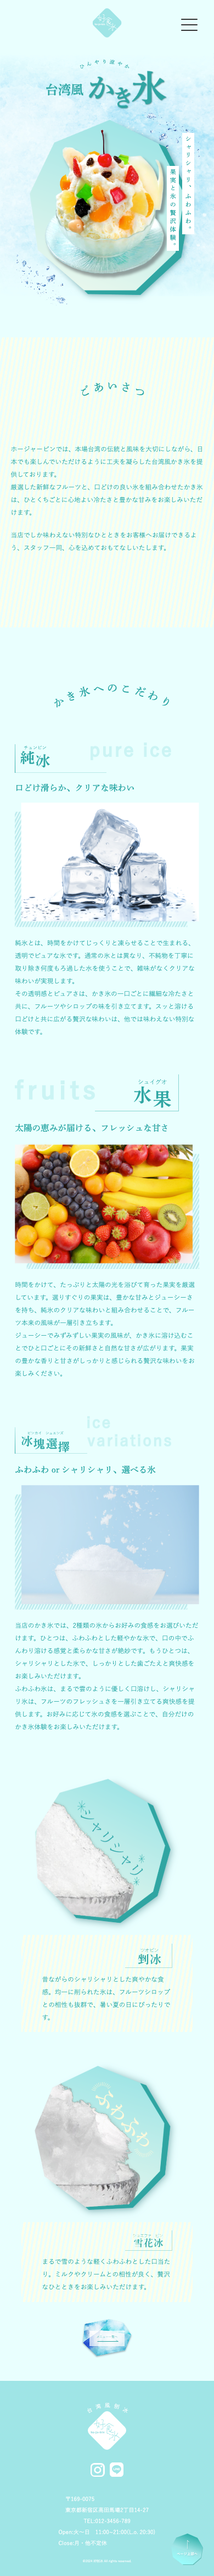
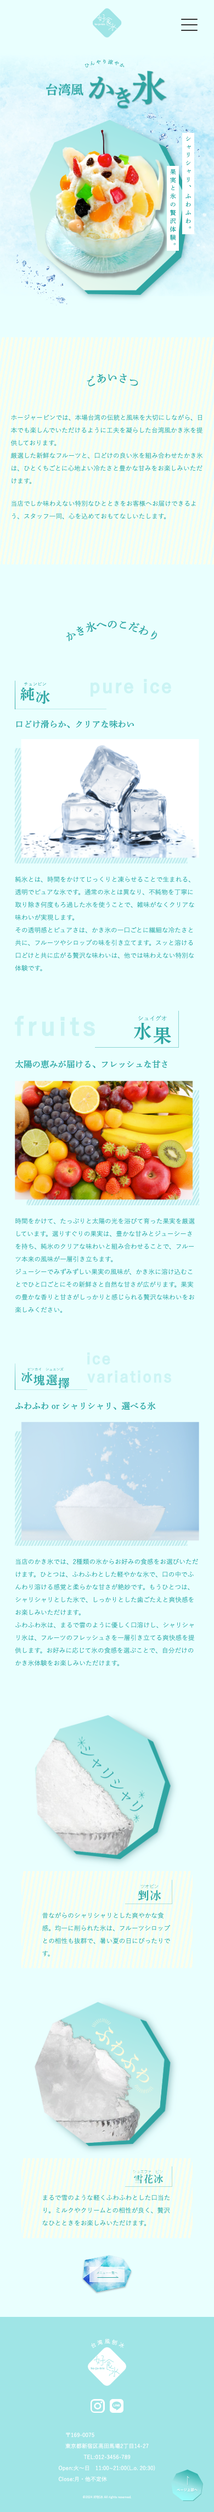
2025.05.24

diff --git a/docs/assets/js/script.js b/docs/assets/js/script.js
@@ -271,15 +271,9 @@ document.addEventListener("DOMContentLoaded", function () {
 GSAP
 ==================== */
 
-// fv-text全体の指定
-// gsap.to(".fv-text", {
-//   opacity: 1,
-//   delay: 0.5,
-//   stagger: 1,
-//   ease: "power2.out",
-// });
-
-const paragraphs = document.querySelectorAll(".fv-text01, .fv-text04");
+const paragraphs = document.querySelectorAll(
+  ".fv-text01, .fv-text02,.fv-text03,.fv-text04"
+);
 
 paragraphs.forEach((paragraph) => {
   const textContent = paragraph.textContent;
@@ -305,28 +299,54 @@ tl.to(jsLoaderBg, {
     /* 前のアニメーションが完了する0.5秒後に実行 */
     {
       autoAlpha: 0,
-      y: 30,
+      y: 10,
     },
     {
       autoAlpha: 1,
       y: 0,
-      stagger: 0.04,
+      stagger: 0.01,
+    }
+    // "+=0.4"
+  )
+  .fromTo(
+    ".fv-text02 span",
+    {
+      autoAlpha: 0,
     },
-    "+=0.4"
+    {
+      autoAlpha: 1,
+      stagger: 0.02,
+      duration: 1 /*アニメーションの時間*/,
+      ease: Power2.easeInOut,
+    },
+    "-=0.2"
+  )
+  .fromTo(
+    ".fv-text03 span",
+    {
+      autoAlpha: 0,
+    },
+    {
+      autoAlpha: 1,
+      stagger: 0.02,
+      duration: 1,
+      ease: Power2.easeInOut,
+    },
+    "-=0.7"
   )
   .fromTo(
     ".fv-text04 span",
     /* 前のアニメーションが完了する0.1秒前に実行 */
     {
       autoAlpha: 0,
-      y: 30,
+      y: 10,
     },
     {
       autoAlpha: 1,
       y: 0,
-      stagger: 0.04,
+      stagger: 0.01,
     },
-    "-=0.1"
+    "-=0.4"
   )
   .to(
     /* リード文 */
@@ -335,8 +355,8 @@ tl.to(jsLoaderBg, {
       /* 前のアニメーションが完了する0.1秒後に実行 */
       opacity: 1,
       y: 0,
-    },
-    "+=0.1"
+    }
+    // "+=0.2"
   )
   .to(
     /* ヘッダー */

diff --git a/docs/assets/css/top.css b/docs/assets/css/top.css
@@ -108,14 +108,14 @@ header {
    background-image: linear-gradient(-225deg, rgb(183, 248, 219, 0.7) 0%, rgb(80, 167, 194, 0.8) 100%)
 }
 
-.header-wrap::before {
+/* .header-wrap::before {
    content: "";
    position: absolute;
    inset: 0;
    background-image: url(https://grainy-gradients.vercel.app/noise.svg);
    opacity: 0.4;
    z-index: 0;
-}
+} */
 
 
 /* .inner-header {
@@ -203,16 +203,18 @@ header {
    margin: 25% 0;
 }
 
+#navArea nav>ul li a {
+   display: inline-block;
+   width: clamp(85px, calc(2.235vw + 67.809px), 100px);
+   text-align: left;
+   font-size: clamp(17px, calc(0.447vw + 13.562px), 20px);
+   letter-spacing: 0.05em;
+   transition: letter-spacing 0.3s;
+}
 
-/* ====================
-   ハンバーガーメニュー
-==================== */
-
-
-
-/* ====================
-   メニュー内コンテンツ
-==================== */
+#navArea nav>ul li a:hover {
+   letter-spacing: 0.15em;
+}
 
 
 
@@ -220,11 +222,6 @@ header {
 /* ====================
    works
 ==================== */
-
-
-
-
-
 
 /* work説明 */
 .tytle-box {
@@ -758,6 +755,16 @@ a:hover::before {
    }
 
    /* header */
+   #navArea nav>ul li a {
+      width: auto;
+      font-size: clamp(14px, calc(0.763vw + 11.137px), 17px);
+   }
+
+   #navArea nav>ul li a:hover {
+      letter-spacing: 0.05em;
+      /* 通常と同じ値に戻す */
+   }
+
    .fv-text02,
    .fv-text03 {
       font-size: clamp(47px, calc(11.959vw + 2.153px), 94px);
@@ -773,11 +780,12 @@ a:hover::before {
    }
 
    .fv-text-wrap .fv-text01 {
-      top: -12%;
+      top: -20%;
       left: -8%;
    }
 
    .fv-text-wrap .fv-text04 {
+      bottom: -20%;
       right: -9%;
    }
 

diff --git a/docs/assets/css/common.css b/docs/assets/css/common.css
@@ -202,7 +202,7 @@ h3 {
     font-size: clamp(16px, calc(1.341vw + 5.686px), 25px);
     font-weight: 300;
     font-style: normal;
-    letter-spacing: 0.03em;
+    letter-spacing: 0.06em;
     border-radius: 999px;
     display: flex;
     box-sizing: border-box;
@@ -217,7 +217,12 @@ h3 {
     transition: all 0.3s;
 }
 
-.all-btn a::before {
+.all-btn a:hover {
+    letter-spacing: 0em;
+}
+
+
+/* .all-btn a::before {
     content: "";
     position: absolute;
     inset: 0;
@@ -225,7 +230,7 @@ h3 {
     border-radius: 999px;
     opacity: 0.3;
     z-index: 0;
-}
+} */
 
 
 
@@ -395,6 +400,7 @@ hamburger(ハンバーガーアイコン)
 }
 
 
+
 /* ====================
    footer
 ==================== */
@@ -404,7 +410,7 @@ footer {
     background-image: linear-gradient(330deg, rgb(183, 248, 219, 0.8) 0%, rgb(80, 167, 194, 0.8) 100%);
     color: #007b74;
     overflow: hidden;
-    background: url(../image/footer_bg02.svg)center center no-repeat;
+    background: url(../image/footer_bg.svg)center center no-repeat;
     background-size: cover;
     width: 100%;
     height: auto;
@@ -420,6 +426,10 @@ footer .mail-address {
     font-weight: 100;
     font-style: normal;
     letter-spacing: 0.12em;
+}
+
+footer .mail-address a:hover {
+    letter-spacing: 0.05em;
 }
 
 footer .footer-arrow {

diff --git a/docs/index.html b/docs/index.html
@@ -15,6 +15,8 @@
 
   <link rel="preconnect" href="https://fonts.googleapis.com">
   <link rel="preconnect" href="https://fonts.gstatic.com" crossorigin>
+  <link href="https://fonts.googleapis.com/css2?family=Material+Symbols+Outlined" rel="stylesheet" />
+
 
   <link
     href="https://fonts.googleapis.com/css2?family=Aboreto&family=Bodoni+Moda:ital,opsz,wght@0,6..96,400..900;1,6..96,400..900&family=Klee+One&family=Zen+Kaku+Gothic+New&display=swap"
@@ -78,6 +80,12 @@
             <li><a href="./subPage_About/">ABOUT</a></li>
             <li><a href="#footer">CONTACT</a></li>
           </ul>
+          <svg version="1.1" xmlns="http://www.w3.org/2000/svg" xmlns:xlink="http://www.w3.org/1999/xlink"
+            viewBox="0 0 300 300" width="0" height="0">
+            <defs>
+              <path id="circlePath" d="M 150, 150 m -50, 0 a 50,50 0 0,1 100,0 a 50,50 0 0,1 -100,0" />
+            </defs>
+          </svg>
         </nav>
       </div>
       <div class="scroll-down-01 js-scroll-down">

diff --git a/docs/subPage_Works_02_myportfolio/index.html b/docs/subPage_Works_02_myportfolio/index.html
@@ -246,7 +246,7 @@
                 <img src="../assets/image/pc_yoi_mockup.png" alt="宵">
               </div>
               <span class="">web site</span>
-              <h3>My portfolio / 照明専門店</h3>
+              <h3>宵 / 照明専門店</h3>
               <span class="">( direction / design / coding )</span>
             </a>
           </li>

diff --git a/docs/assets/css/about.css b/docs/assets/css/about.css
@@ -277,7 +277,7 @@
     width: 100%;
     display: block;
     object-fit: cover;
-    transition: filter 0.5s;
+    /* transition: filter 0.5s; */
 }
 
 .list-desc {

diff --git a/docs/assets/css/works_02_myportfolio.css b/docs/assets/css/works_02_myportfolio.css
@@ -73,6 +73,7 @@ h2 .secTitleEn {
 }
 
 .link-wrap a:hover {
+    letter-spacing: 0.05em;
     opacity: 0.6;
 }
 

diff --git a/docs/assets/css/works_03_rosalie.css b/docs/assets/css/works_03_rosalie.css
@@ -70,6 +70,7 @@ h2 .secTitleEn {
 }
 
 .link-wrap a:hover {
+    letter-spacing: 0.05em;
     opacity: 0.6;
 }
 

diff --git a/docs/assets/css/works_01_yoi.css b/docs/assets/css/works_01_yoi.css
@@ -65,6 +65,7 @@ h2 {
 }
 
 .link-wrap a:hover {
+    letter-spacing: 0.05em;
     opacity: 0.6;
 }
 

diff --git a/docs/assets/css/works_04_komorebi.css b/docs/assets/css/works_04_komorebi.css
@@ -65,6 +65,7 @@ h2 {
 }
 
 .link-wrap a:hover {
+    letter-spacing: 0.05em;
     opacity: 0.6;
 }
 

diff --git a/docs/assets/css/works_05_ho-ja-bin.css b/docs/assets/css/works_05_ho-ja-bin.css
@@ -65,6 +65,7 @@ h2 {
 }
 
 .link-wrap a:hover {
+    letter-spacing: 0.05em;
     opacity: 0.6;
 }
 
